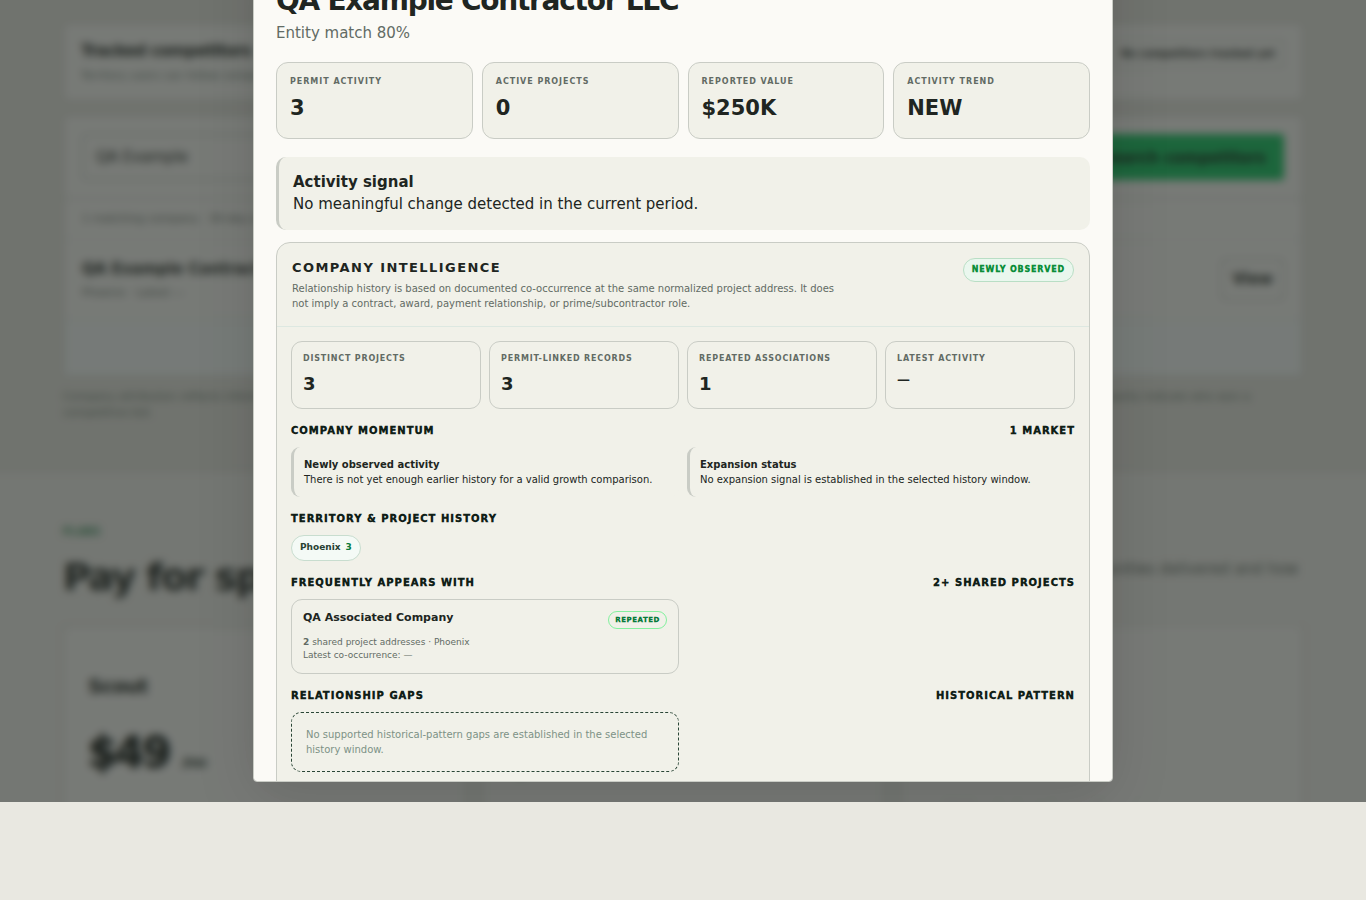
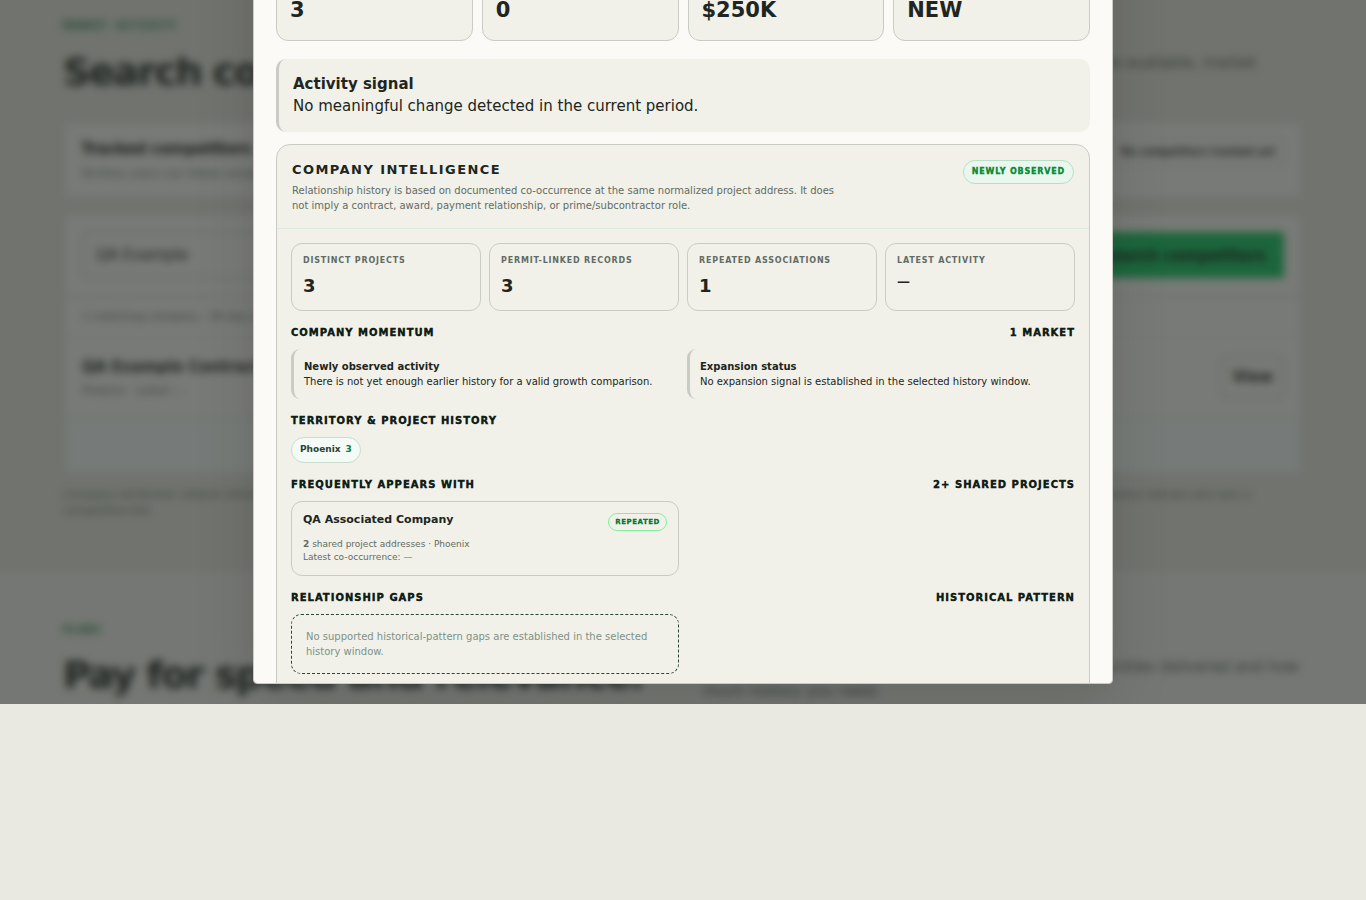
Keep long intelligence modals within the viewport

diff --git a/frontend/public/assets/rt-shell.css b/frontend/public/assets/rt-shell.css
@@ -19,3 +19,4 @@ html body .source-flow-console,html body .source-flow-console:before{background:
 #sourceFlowConsole{background:var(--paper)!important;box-shadow:none!important;border:1px solid var(--rt-line)!important}#sourceFlowConsole .flow-head,#sourceFlowConsole .flow-foot{background:var(--paper)!important;border-color:var(--rt-line)!important;color:var(--rt-muted)!important}#sourceFlowConsole:before{display:none!important}#sourceFlowConsole .flow-head-title,#sourceFlowConsole .flow-head-title span{color:var(--graphite)!important}#sourceFlowConsole .flow-foot-left{color:var(--rt-muted)!important}#sourceFlowConsole .flow-live{background:transparent!important;color:var(--green-dark)!important;box-shadow:none!important}#sourceFlowConsole .flow-output-score{border-color:var(--rt-line)!important}#intelConsole{background:var(--paper)!important;box-shadow:none!important;border-color:var(--rt-line)!important}#intelConsole .console-head-title,#intelConsole .metric strong{color:var(--graphite)!important}#intelConsole .metric small,#intelConsole .console-foot,#intelConsole .radar-topo{color:var(--rt-muted)!important}
 /* Keep long profiles inside the viewport on both existing modal implementations. */
 body .modal{grid-template-columns:minmax(0,1fr);place-items:center;align-content:center;overflow:hidden}body .modal-card{min-width:0;max-height:calc(100dvh - 40px)!important;overflow:auto}
+html:has(.modal.open,.modal.show){overflow:hidden;scroll-behavior:auto}body .modal-card{scroll-behavior:auto}
